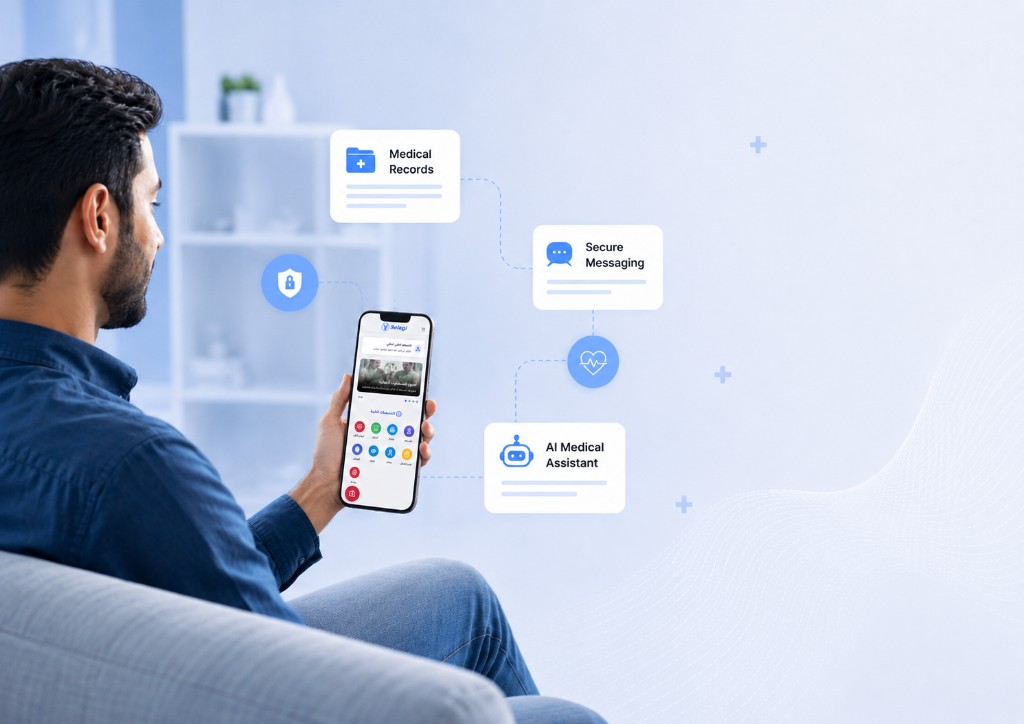
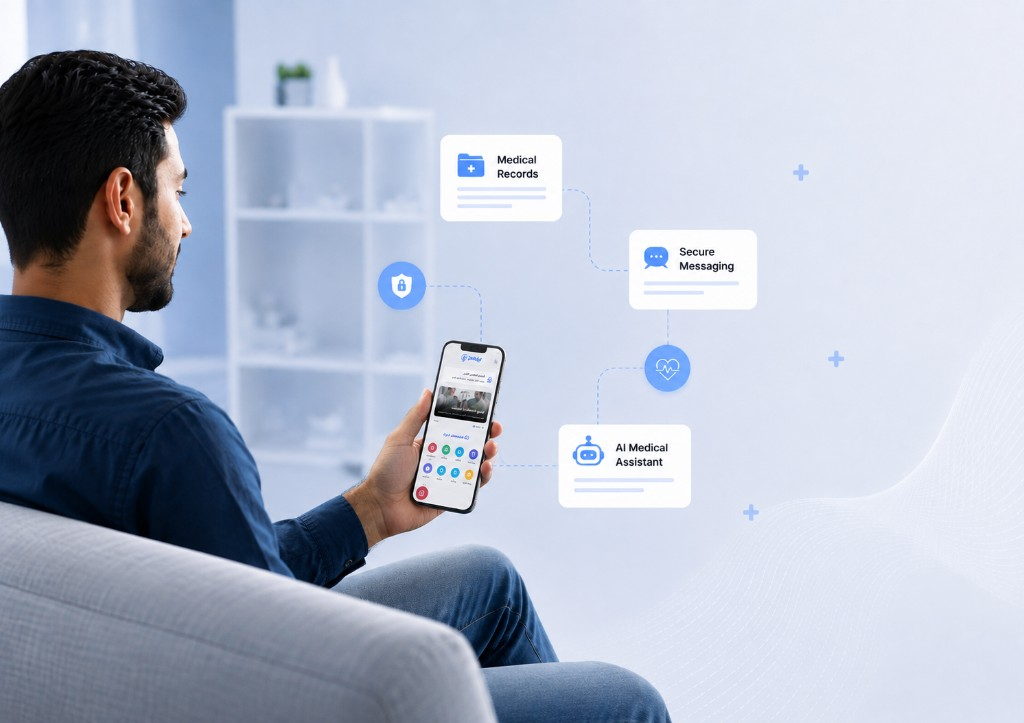
feat: upating background on welcome

diff --git a/app/welcome.tsx b/app/welcome.tsx
@@ -14,7 +14,7 @@ import { useColors } from "@/hooks/useColors";
 import { useI18n } from "@/hooks/useI18n";
 import { flexRow } from "@/utils/rtl";
 
-const WELCOME_HERO_MOBILE = require("@/assets/images/welcome-hero-mobile.jpg");
+const WELCOME_HERO_MOBILE = require("@/assets/images/welcome-hero-mobile.png");
 
 type WelcomePanel = "home" | "login" | "signup";
 
